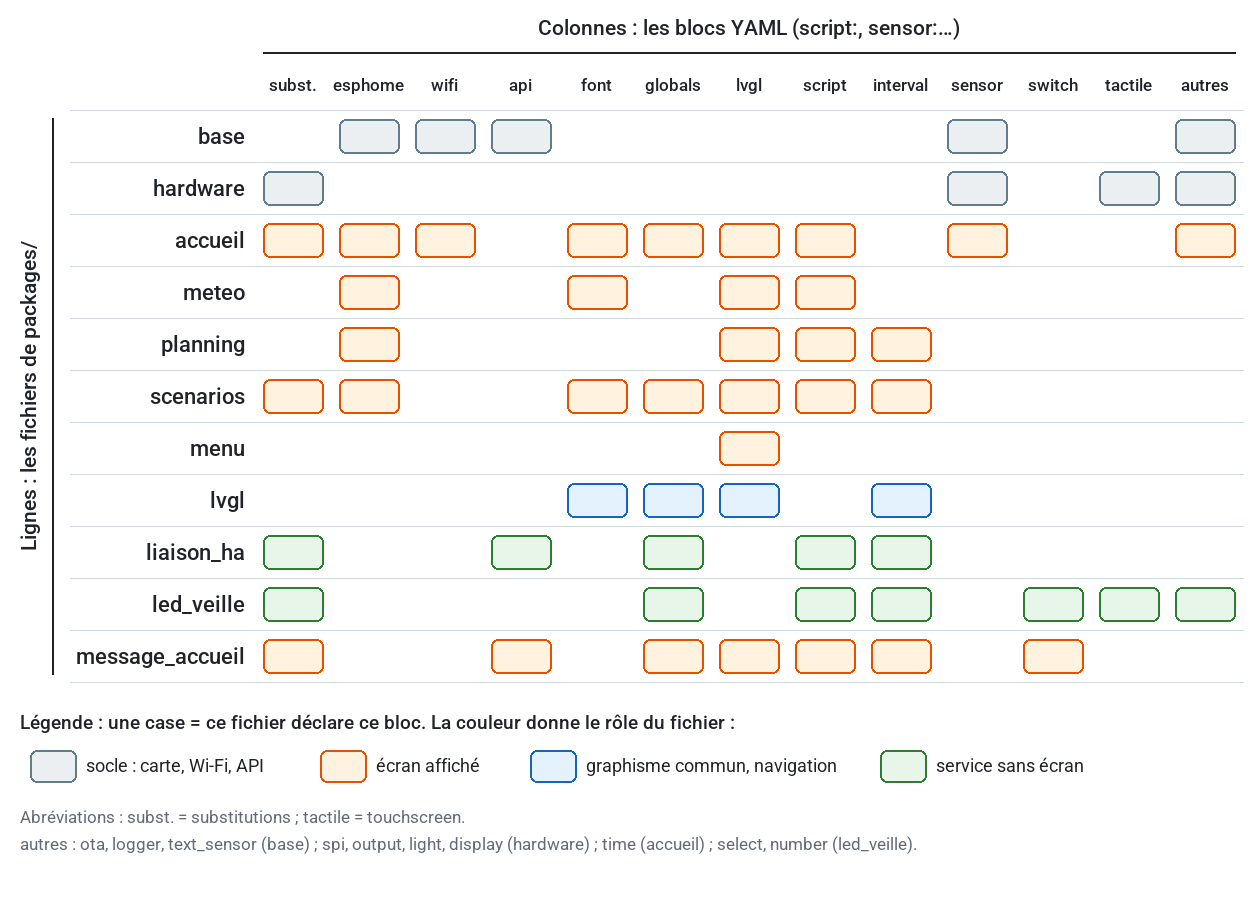
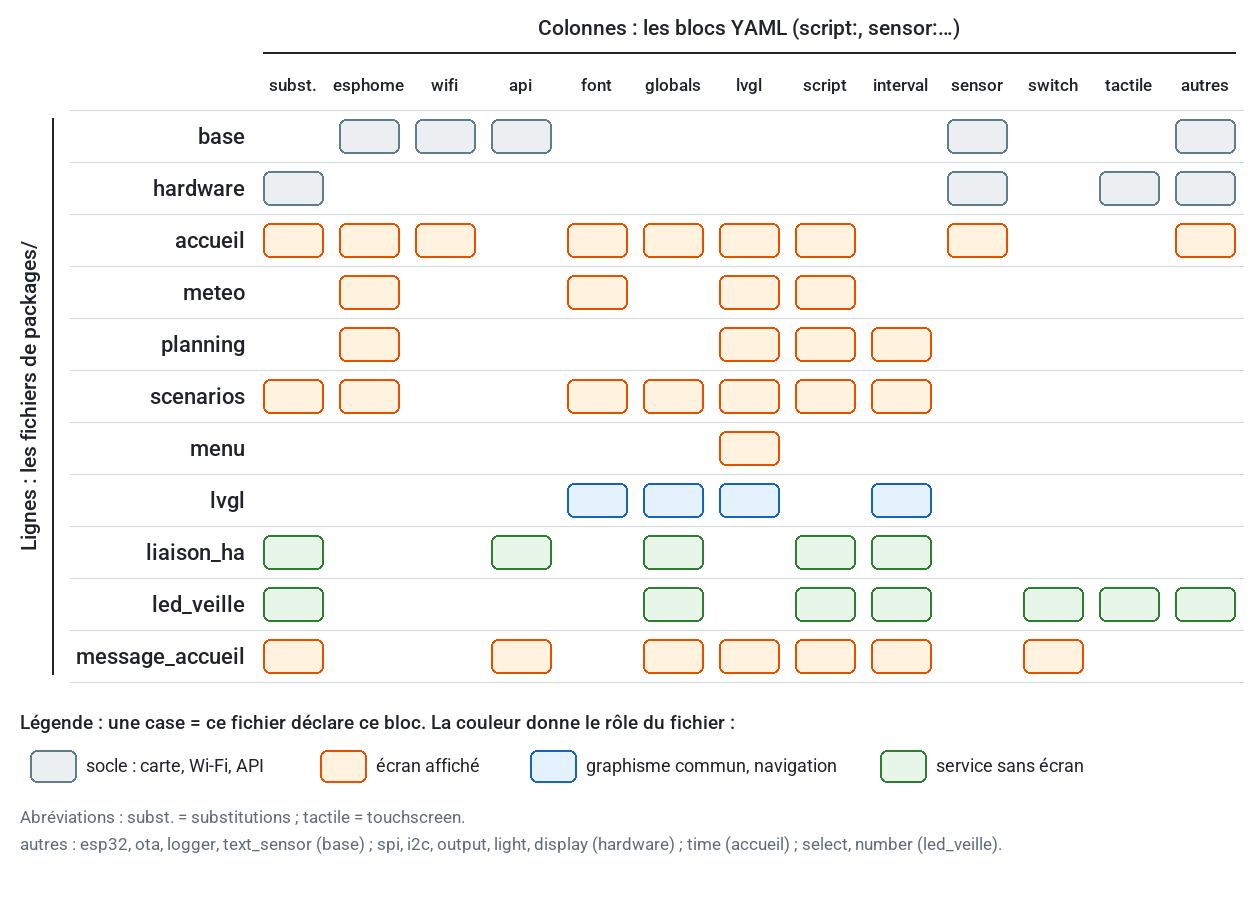
Architecture : matrice calculee depuis les fichiers YAML
La saisie a la main avait oublie esp32 et i2c dans la legende.

Changed region(s): [[0.0619, 0.9333, 0.8048, 0.9644]]

diff --git a/tools/generer_schemas_architecture.py b/tools/generer_schemas_architecture.py
@@ -4,6 +4,7 @@ Depuis la racine du depot, apres une compilation (polices dans .esphome/font) :
     .venv/Scripts/python tools/generer_schemas_architecture.py
 """
 import math
+import re
 from pathlib import Path
 
 from PIL import Image, ImageDraw, ImageFont
@@ -394,17 +395,24 @@ def blueprint_structure():
 
 def yaml_matrice():
     colonnes = ["subst.", "esphome", "wifi", "api", "font", "globals", "lvgl", "script", "interval", "sensor", "switch", "tactile", "autres"]
-    lignes = [("base", "esphome wifi api sensor autres", GRIS, "#607D8B"),
-              ("hardware", "subst. sensor tactile autres", GRIS, "#607D8B"),
-              ("accueil", "subst. esphome wifi font globals lvgl script sensor autres", ORANGE, B_ORANGE),
-              ("meteo", "esphome font lvgl script", ORANGE, B_ORANGE),
-              ("planning", "esphome lvgl script interval", ORANGE, B_ORANGE),
-              ("scenarios", "subst. esphome font globals lvgl script interval", ORANGE, B_ORANGE),
-              ("menu", "lvgl", ORANGE, B_ORANGE),
-              ("lvgl", "font globals lvgl interval", BLEU, B_BLEU),
-              ("liaison_ha", "subst. api globals script interval", VERT, B_VERT),
-              ("led_veille", "subst. globals script interval switch tactile autres", VERT, B_VERT),
-              ("message_accueil", "subst. api globals lvgl script interval switch", ORANGE, B_ORANGE)]
+    abreges = {"substitutions": "subst.", "touchscreen": "tactile"}
+    # Role de chaque fichier (couleur) ; ses blocs sont lus dans le fichier
+    # lui-meme : la matrice suit le YAML sans saisie a la main.
+    roles_fichiers = [("base", GRIS, "#607D8B"), ("hardware", GRIS, "#607D8B"),
+                      ("pages/accueil", ORANGE, B_ORANGE), ("pages/meteo", ORANGE, B_ORANGE),
+                      ("pages/planning", ORANGE, B_ORANGE), ("pages/scenarios", ORANGE, B_ORANGE),
+                      ("pages/menu", ORANGE, B_ORANGE), ("lvgl", BLEU, B_BLEU),
+                      ("liaison_ha", VERT, B_VERT), ("led_veille", VERT, B_VERT),
+                      ("message_accueil", ORANGE, B_ORANGE)]
+    lignes, autres = [], []
+    for chemin, fond, bord in roles_fichiers:
+        texte = (RACINE / "packages" / f"{chemin}.yaml").read_text(encoding="utf-8")
+        blocs = [abreges.get(b, b) for b in re.findall(r"^([a-z0-9_]+):", texte, re.M)]
+        hors = [b for b in blocs if b not in colonnes]
+        nom = chemin.split("/")[-1]
+        if hors:
+            autres.append(f"{', '.join(hors)} ({nom})")
+        lignes.append((nom, " ".join(blocs + (["autres"] if hors else [])), fond, bord))
     s = S(1260, 900)
     x0, y0, lc, hl = 255, 110, 76, 52
     yf = y0 + len(lignes) * hl
@@ -439,7 +447,7 @@ def yaml_matrice():
         s.d.rounded_rectangle([cx, yf + 68, cx + 46, yf + 100], 7, fill=fond, outline=bord, width=2)
         s.d.text((cx + 56, yf + 84), texte, fill=ENCRE, font=f(18), anchor="lm")
     s.d.text((20, yf + 135), "Abréviations : subst. = substitutions ; tactile = touchscreen.", fill=DOUX, font=f(17), anchor="lm")
-    s.d.text((20, yf + 162), "autres : ota, logger, text_sensor (base) ; spi, output, light, display (hardware) ; time (accueil) ; select, number (led_veille).", fill=DOUX, font=f(17), anchor="lm")
+    s.d.text((20, yf + 162), "autres : " + " ; ".join(autres) + ".", fill=DOUX, font=f(17), anchor="lm")
     s.sauver("20_yaml_matrice.png")
 
 
